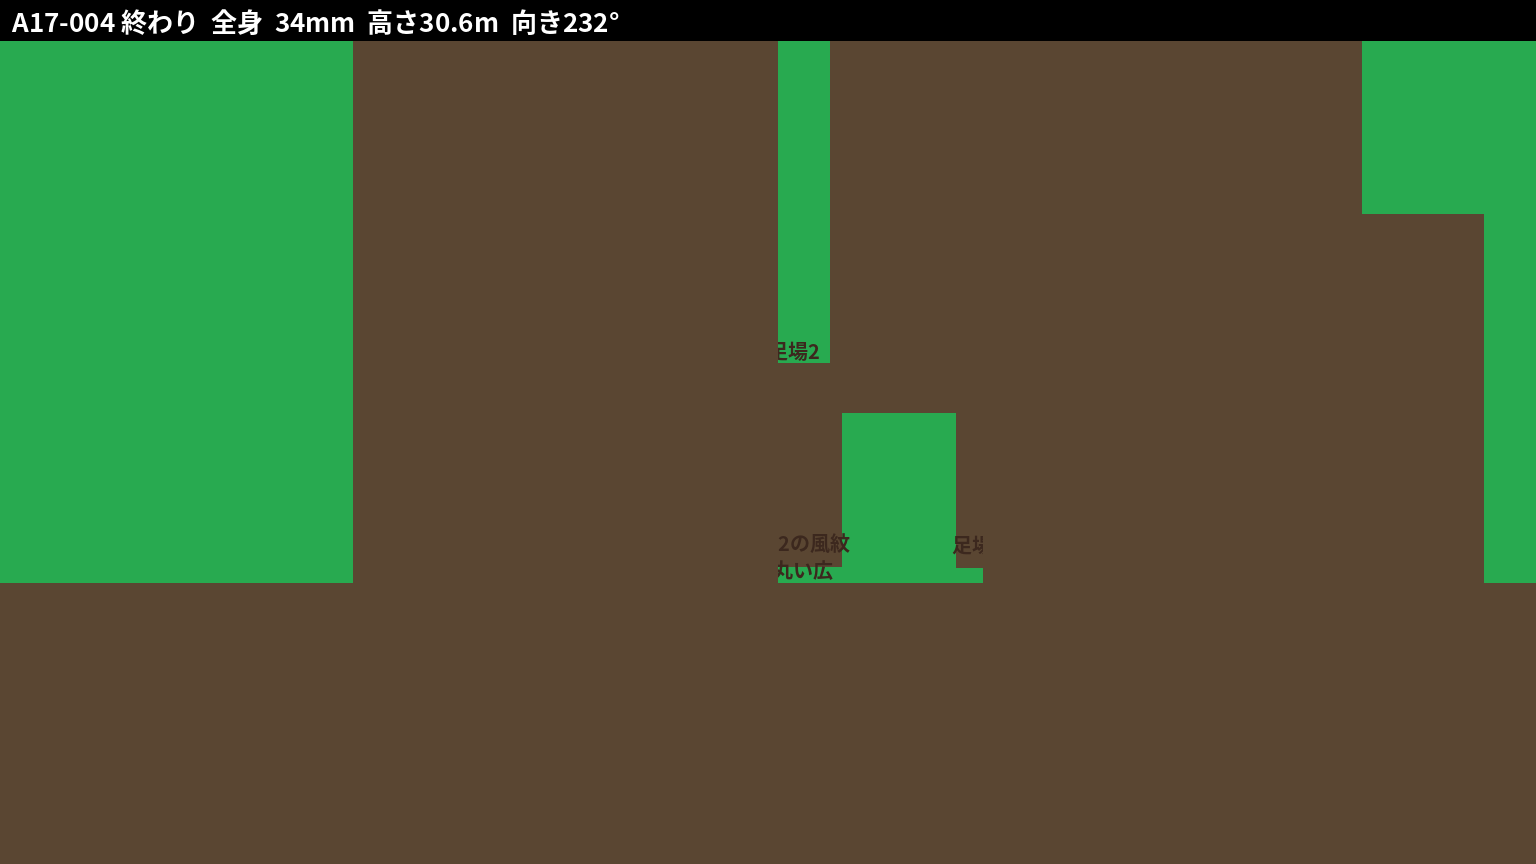
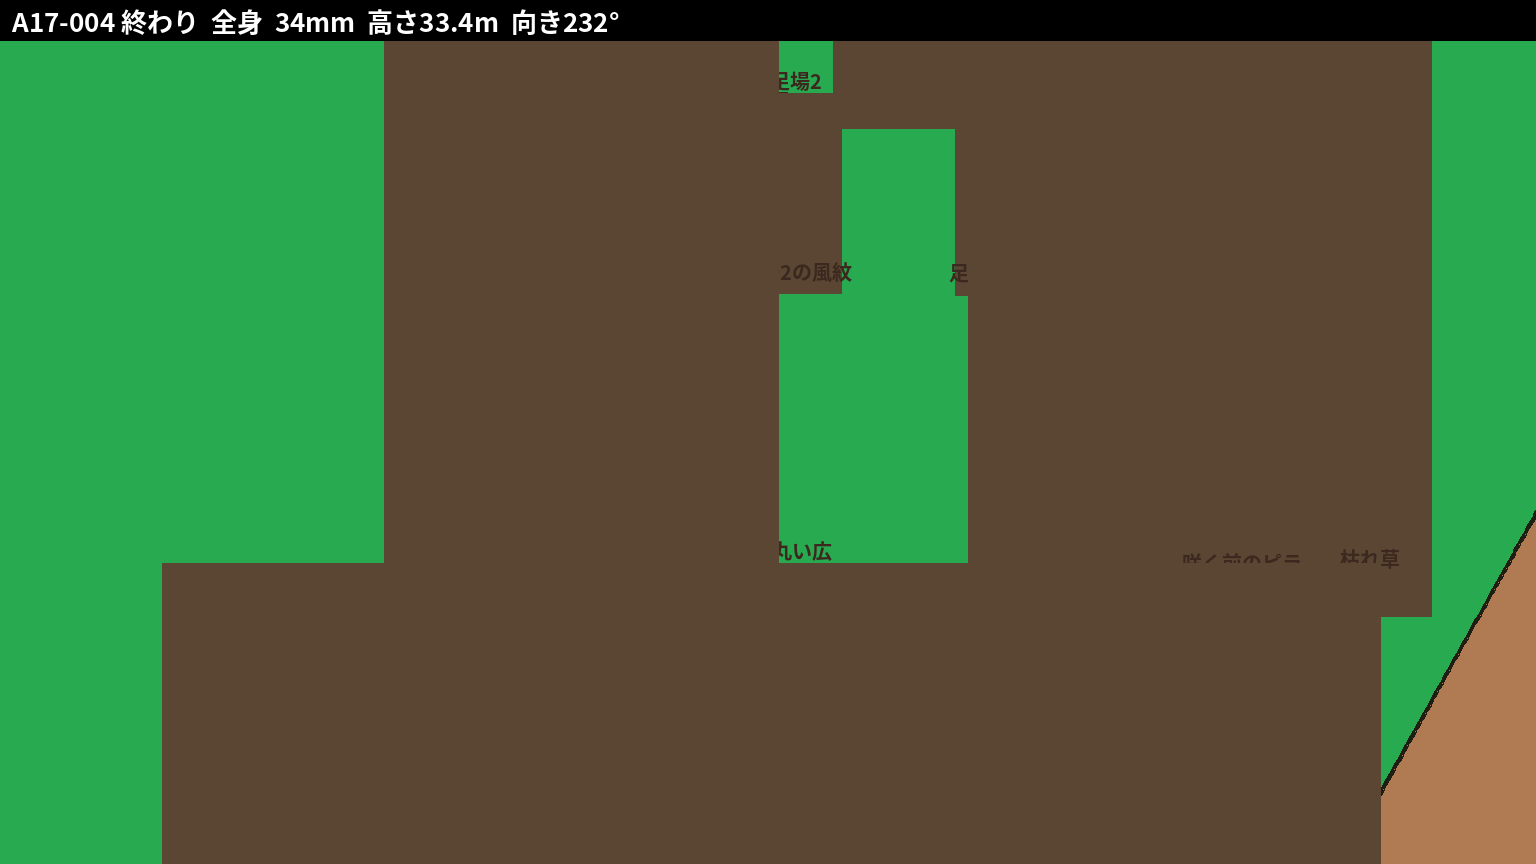
A17-004 のカメラを魔女たちの頭上の高い所へ（手前の魔女の帽子が画面をふさいでいた）
Claude-Session: https://claude.ai/code/session_01FyK1WbVhRw1asnQ1TV3L4R

diff --git a/episodes/A/scenes/A17/gen/staging_report.md b/episodes/A/scenes/A17/gen/staging_report.md
@@ -8,7 +8,7 @@
 | 001 | 引き | 高台の南（森側）・高い位置・24mm・3° | パ（中央・正面）、百（中央・横顔（画面右向き））、リ（中央・正面）、ビ（中央・斜め後ろ（画面右向き））、メ（中央・斜め前（画面左向き））、ル（中央・横顔（画面右向き））、ア（中央・横顔（画面左向き））、ラ（中央・正面）、ウ（中央・正面）、テレ（中央・斜め前（画面左向き））、ベ（中央・斜め前（画面左向き）） | パ（中央・正面）、百（中央・斜め後ろ（画面右向き））、リ（中央・正面）、ビ（中央・背中）、メ（中央・背中）、ル（中央・背中）、ア（中央・斜め後ろ（画面左向き））、ラ（中央・正面）、ウ（中央・正面）、テレ（中央・斜め前（画面左向き））、ベ（中央・斜め前（画面左向き）） | 夜の山頂の広場〔山頂〕 |
 | 002 | 全身 | 崖の外（沼の上）・高い位置・28mm・177° | ア（中央・正面）、メ（中央・正面）、ル（中央・正面）、ビ（中央・正面）、百（中央・正面） | ア（中央・正面）、メ（中央・正面）、ル（中央・正面）、ビ（中央・正面）、百（中央・正面） | 夜の山頂の広場〔山頂〕 |
 | 003 | 全身 | 高台の東・高い位置・30mm・353° | パ（中央・正面）、リ（中央・正面）、メ（中央・背中）、ア（中央・斜め後ろ（画面左向き））、ラ（中央・正面）、ウ（中央・正面）、テレ（中央・斜め前（画面左向き））、ベ（中央・斜め前（画面左向き）） | パ（中央・正面）、リ（中央・正面）、メ（中央・斜め後ろ（画面右向き））、ア（中央・斜め後ろ（画面左向き））、ラ（中央・正面）、テレ（中央・斜め前（画面左向き））、ウ（中央・正面）、ベ（中央・斜め前（画面左向き）） | 夜の山頂の広場〔山頂〕 |
-| 004 | 全身 | 崖の外（沼の上）・高い位置・30mm・232° | ビ（中央・斜め前（画面右向き））、テレ（中央・背中）、ベ（中央・背中）、メ（中央・正面）、ウ（中央・斜め後ろ（画面左向き））、ラ（中央・横顔（画面左向き））、パ（右・斜め前（画面左向き））、リ（右・斜め前（画面左向き）） | ビ（中央・斜め前（画面右向き））、テレ（中央・背中）、メ（中央・背中）、ベ（中央・背中）、ウ（中央・斜め後ろ（画面左向き））、ラ（中央・横顔（画面左向き））、パ（右・斜め前（画面左向き））、リ（右・斜め前（画面左向き）） | 夜の山頂の広場〔山頂〕 |
+| 004 | 全身 | 崖の外（沼の上）・高い位置・30mm・232° | ビ（中央・斜め前（画面右向き））、テレ（中央・背中）、ベ（中央・背中）、メ（中央・正面）、ウ（中央・斜め後ろ（画面左向き））、ラ（中央・横顔（画面左向き））、パ（中央・斜め前（画面左向き））、リ（右・斜め前（画面左向き）） | ビ（中央・斜め前（画面右向き））、テレ（中央・背中）、メ（中央・背中）、ベ（中央・背中）、ウ（中央・斜め後ろ（画面左向き））、ラ（中央・横顔（画面左向き））、パ（右・斜め前（画面左向き））、リ（右・斜め前（画面左向き）） | 夜の山頂の広場〔山頂〕 |
 | 005 | 寄り | 崖の縁・高い位置・36mm・72° | メ（中央・斜め前（画面右向き）） | メ（中央・横顔（画面左向き）） | 夜の山頂の広場〔山頂〕 |
 | 006 | 全身（煽り） | 高台の東・高い位置・30mm・335° | パ（中央・正面）、メ（中央・斜め後ろ（画面左向き））、リ（中央・正面） | パ（中央・正面）、メ（中央・斜め後ろ（画面左向き））、リ（中央・正面） | 夜の山頂の広場〔山頂〕 |
 | 007 | 全身 | 崖の縁・高い位置・32mm・18° | メ（中央・横顔（画面左向き））、ラ（中央・正面）、ウ（中央・正面）、ベ（中央・正面） | メ（中央・横顔（画面左向き））、ラ（中央・正面）、ウ（中央・正面）、ベ（中央・正面） | 夜の山頂の広場〔山頂〕 |
